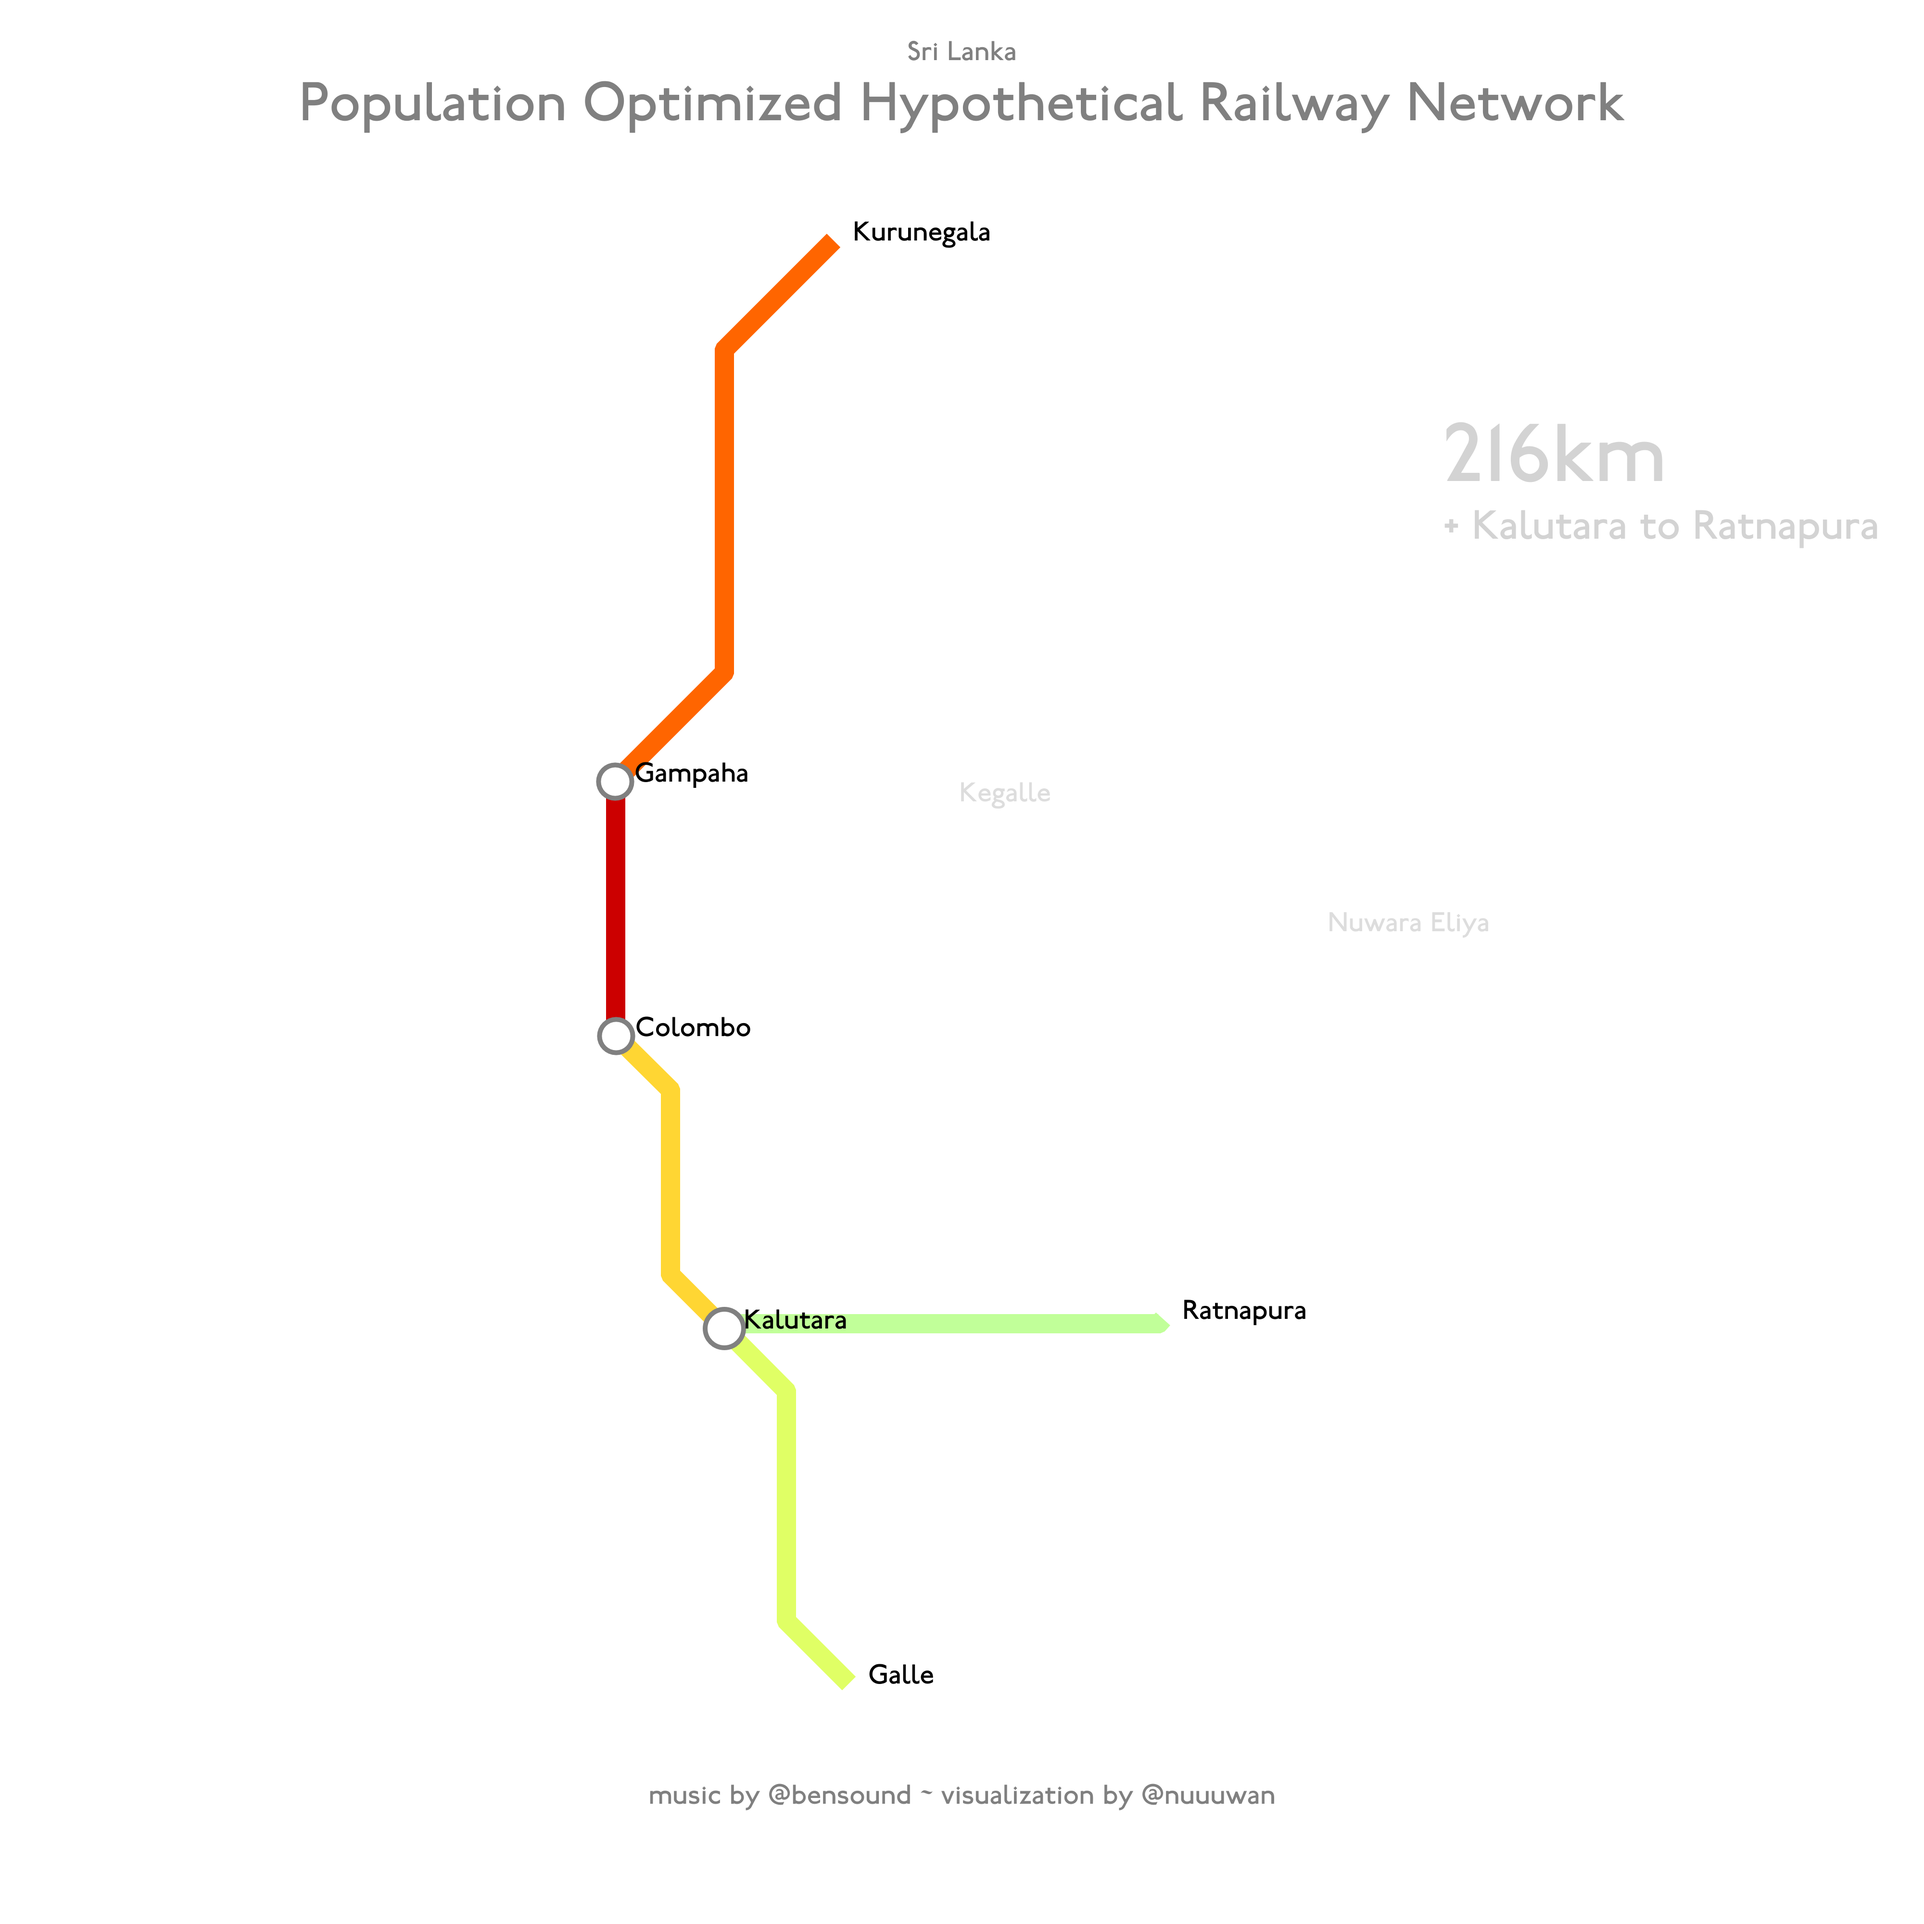
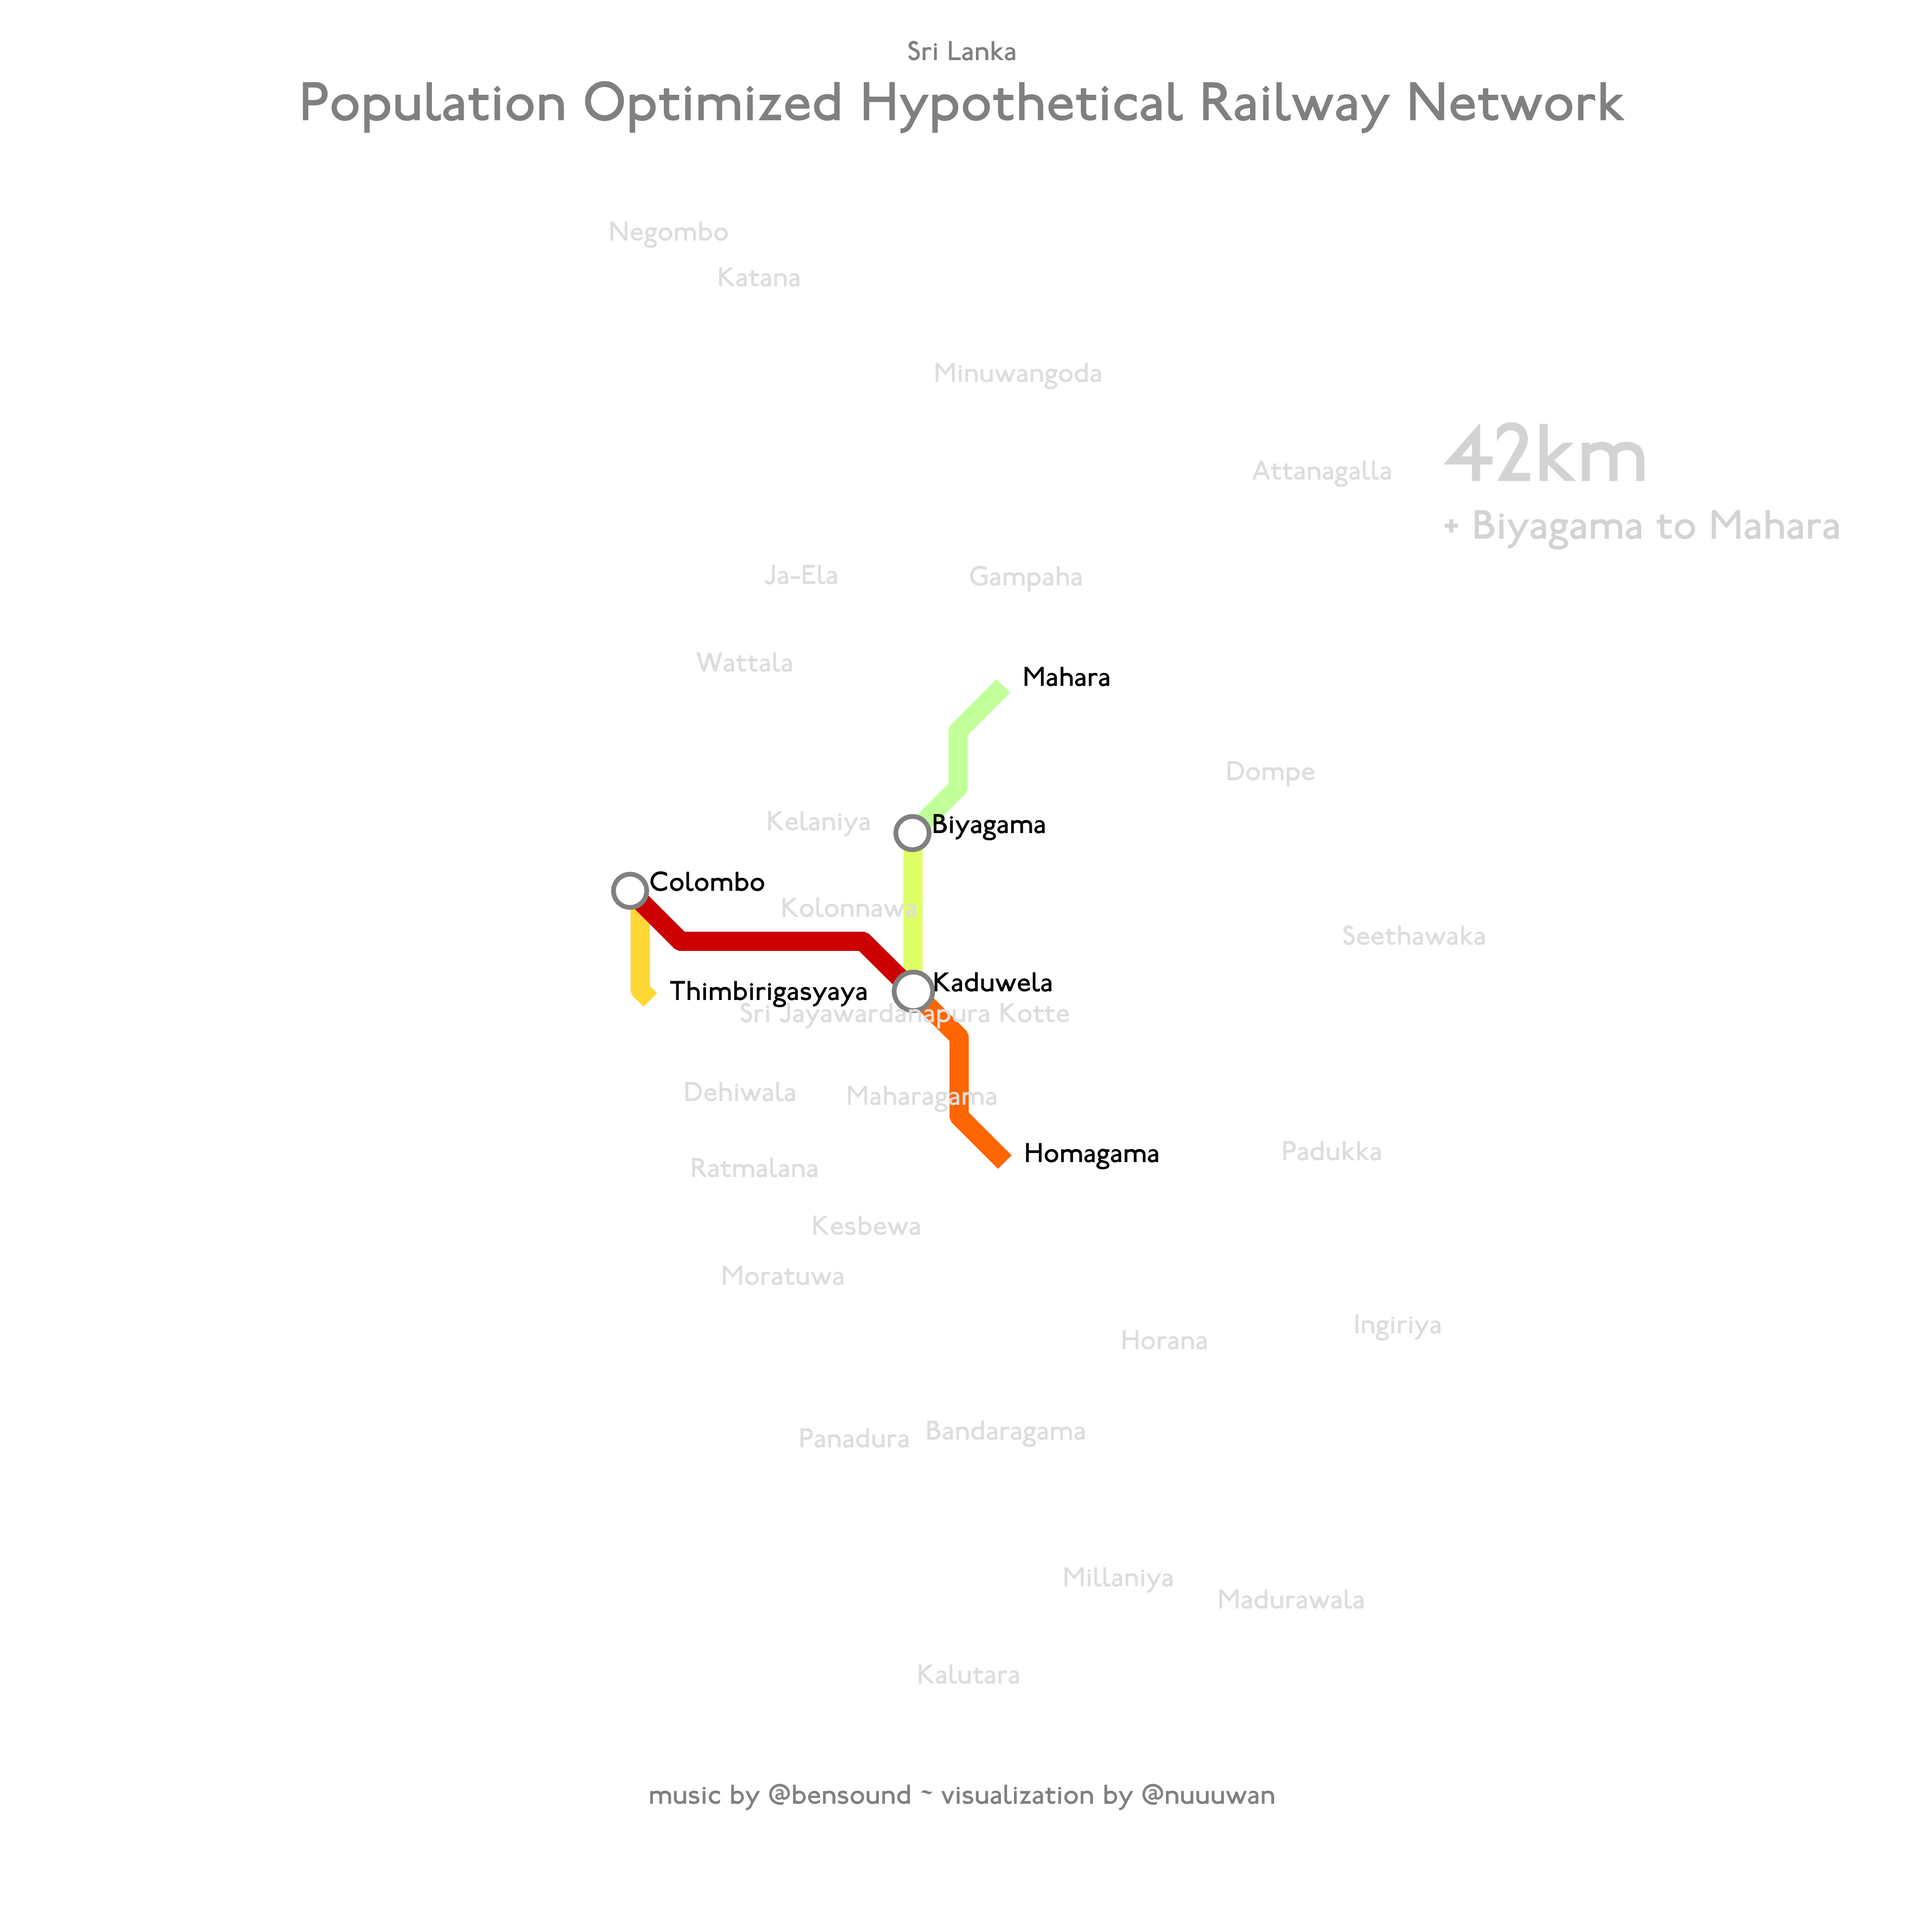
various

diff --git a/workflows/rail_network.py b/workflows/rail_network.py
@@ -12,16 +12,16 @@ log = Log('rail_network')
 
 def is_close_enough(centroid):
     distance = shape_utils.compute_distance(centroid, [6.92, 79.86])
-    return distance < 100
+    return distance < 40
 
 
 def build_single():
     styler = Styler()
     max_network_length = 1048 * 2
-    max_segments = 5
+    max_segments = 15
 
     network = Network.from_type(
-        EntType.DISTRICT, lambda ent: is_close_enough(ent.centroid)
+        EntType.DSD, lambda ent: is_close_enough(ent.centroid)
     )
     network.edge_pair_list = []
     network = single_segments.rebuild_incr(

diff --git a/src/lgn/custom_edges/single_segments.py b/src/lgn/custom_edges/single_segments.py
@@ -34,6 +34,7 @@ def compute_average_meet_time(network):
 
 def get_fitness_for_edge_pair(network, edge_pair, before_average_meet_time):
     node_i, node_j = edge_pair
+   
     if [node_i, node_j] in network.edge_pair_list or [
         node_j,
         node_i,
@@ -71,6 +72,8 @@ def get_best_incr(network):
         if d_per_distance > best_d_per_distance:
             best_d_per_distance = d_per_distance
             best_edge_pair = edge_pair
+            print(f'get_best_incr: {best_edge_pair=}' + ' '*20, end="\r")
+    print()
 
     return best_edge_pair
 
